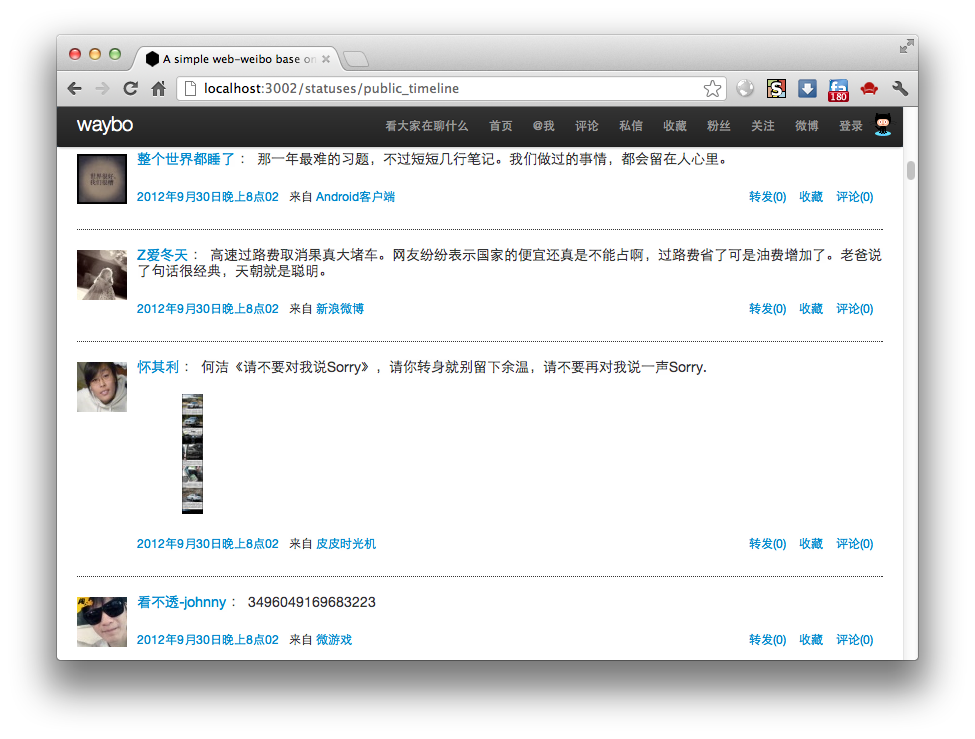
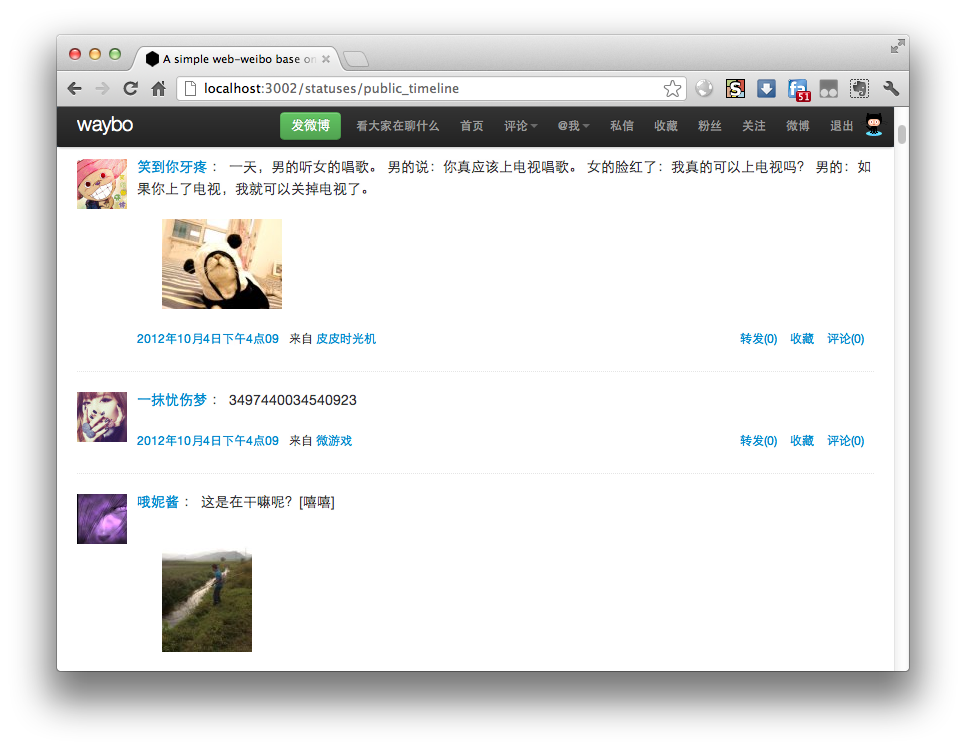
update screenshot & fix session problem

diff --git a/public/assets/css/weibo-index.css b/public/assets/css/weibo-index.css
@@ -23,7 +23,7 @@
 .layer_collect{padding:15px 20px;width:400px;}.layer_collect .tit{margin-bottom:15px;}.layer_collect .collect_kind{height:100%;overflow:hidden;padding-bottom:10px;}.layer_collect .collect_kind a,.layer_collect .collect_kind a span{display:inline-block;height:22px;line-height:22px;background:url("../../../images/layer/chosen_btn.png?id=1341302813656")  0 0 no-repeat;}.layer_collect .collect_kind a{float:left;padding-left:10px;margin-right:8px;margin-bottom:5px;color:#49646f;white-space:nowrap;}.layer_collect .collect_kind a span{padding-right:10px;background-position:right 0;}.layer_collect .collect_kind a:hover,.layer_collect .collect_kind a.cur{background-position:0 -32px;text-decoration:none;color:#fff;}.layer_collect .collect_kind a:hover span,.layer_collect .collect_kind a.cur span{background-position:right -32px;cursor:pointer;}.layer_collect .add_group .comment{margin-top:10px;_margin-top:5px;}.layer_collect .add_group .comment a,.layer_collect .add_group .comment a span{margin-right:0;display:inline-block;height:22px;line-height:22px;}.layer_collect .add_group .comment a{padding-left:10px;}.layer_collect .add_group .comment a span{padding-right:10px;}.layer_collect .add_group .comment a:hover{background-color:#dce2e4;border-radius:3px;text-decoration:none;}.layer_collect .add_group .comment a:hover span{cursor:pointer;}.layer_collect .add_group .comment a.cur,.layer_collect .add_group .comment a.cur span{background:url("../../../images/layer/chosen_btn.png?id=1341302813656")  0 -32px no-repeat;}.layer_collect .add_group .comment a.cur span{background-position:right -32px;color:#fff; font-weight:bold;}.layer_collect .add_group .comment em{color:#dbdada;}.layer_collect .add_group img{margin-right:3px;vertical-align:-1px;}.layer_collect .add_group a{color:#0078b6;}.layer_collect .add_group a{margin-right:10px;}.layer_collect .add_group a.W_btn_a_disable{*vertical-align:5px;}.layer_collect .add_group .W_moredown,.layer_collect .add_group .W_moreup{display:inline-block;color:#999;border:1px solid #c6c6c6;padding:4px 4px 5px 8px;margin-left:-1px;_margin-top:1px;}.layer_collect .add_group .W_moredown:hover,.layer_collect .add_group .W_moreup:hover{text-decoration:none;}.layer_collect .add_group a.W_moredown span,.layer_collect .add_group a.W_moreup:hover span{border-top-color:#49646f}.layer_collect .add_group input{padding:0 5px;padding:5px 5px 0\9;width:180px;color:#999;}.layer_collect .collect_reason{margin-top:10px;padding-top:10px;padding-bottom:10px;border-bottom:1px dotted #F1F1F1;border-top:1px dotted #f1f1f1;}.layer_collect .collect_reason textarea{padding:5px;height:16px;line-height:16px;color:#999;width:388px;}.layer_collect .see_hot{float:left;padding-top:5px;}.layer_collect .see_hot .W_Titarr_off,.layer_collect .see_hot .W_Titarr_on{vertical-align:-2px;*vertical-align:1px;}.layer_collect .see_hot a{color:#9ABBC8;}.layer_collect .collect_reason .kind{ float:left;padding-top:3px;}.layer_collect .collect_reason .kind a{margin:0 10px 0 0;display:inline-block;height:14px;padding:2px 0 2px 19px;line-height:14px;line-height:14px;background:url("../../../images/common/ico.png?id=1341302813656")  no-repeat;}.layer_collect .collect_reason .kind .face{background-position:0 1px;*background-position:0 0px;}.layer_collect .text_r{text-align:right;margin-top:10px;}.layer_collect .text_r .btn_noloading{margin-left:5px;}.layer_collect .comment_lists{overflow:hidden;}.layer_collect .comment_list dd{width:auto;}.layer_collect .comment_list{border-color:#f1f1f1;margin-top:-1px;padding-bottom:5px;}.layer_collect .comment{border:1px solid #F1F1F1;background:#FBFBFB;zoom:1;line-height:20px;padding: 15px 15px 10px;_padding:0 20px 13px;font-size:12px;margin:7px 0;-moz-border-radius:3px;-webkit-border-radius:3px;}.layer_collect .comment .collect_arrow{_display:none;width:25px;margin:-25px 0 0 0;height:11px;overflow:hidden;}.layer_collect .comment .collect_arrow span,.layer_collect .comment .collect_arrow em{display:inline-block;font-size:21px;font-family:"宋体";}.layer_collect .comment .collect_arrow span{color:#FBFBFB;}.layer_collect .comment .collect_arrow em{color:#F1F1F1;}.layer_collect .comment p{padding-top:10px;}.layer_collect .comment .collect_arrow span{margin:-19px 0 0;}.layer_collect .add_group .comment .collect_arrow{margin-left:200px;}#js_style_css_module_layer_layer_collect{height:42px;}
 .layer_feed_spread{	padding:15px;	width:350px;}.layer_feed_spread .spread dt,.layer_feed_spread .spread dd{	float:left;	width:50px;}.layer_feed_spread .spread dd{	width:290px;	margin:0 0 0 10px;	line-height:18px;	overflow: hidden;}.layer_feed_spread .spread .spread_arrow{	margin:0 0 0 20px;	position:relative;}.layer_feed_spread .spread .spread_arrow *{	font-family:"SimSun";	overflow:hidden;	font-size:21px;	display:block;	height:10px;	color:#e1e4e5;}.layer_feed_spread .spread .spread_arrow span{	margin:-9px 0 0;	color:#fbfbfb;}.layer_feed_spread .spread .transpond_detail{	border:1px solid #e1e4e5;	margin:-2px 0 0;	_margin:-4px 0 0;	background:#fbfbfb;	padding:3px 5px;	_zoom:1;}.layer_feed_spread .func{	margin:12px 0 0;}.layer_feed_spread .func span{	float:right;}
 .layer_quick_reply{width:200px;}.layer_quick_reply .faces{margin:10px 0 10px 10px;}.layer_quick_reply .faces img{margin-right:6px;width:30px;height:30px;cursor: pointer;}.layer_quick_reply .info{border-top:1px dotted #e3e3e3;margin:0 10px;}.layer_quick_reply .others{padding:10px 0;}.layer_quick_reply .others li{float:left;_display:inline;position:relative;margin: 0 6px 6px 0;}.layer_quick_reply .others li img{display:block;}.layer_quick_reply .others li .reply_face{cursor:pointer;position: absolute;right:-3px;bottom:-3px;}.layer_quick_reply .no_reply{padding:10px 0;}.layer_quick_reply .btm{background:#f5f5f5;text-align:right;height:33px;line-height:33px;padding:0 10px;}#js_style_css_module_layer_layer_quick_reply{height:42px;}
-.perAll_info{ }.perAll_info .name{ height:30px;line-height:30px;margin-top:-4px;}.perAll_info .name .approve,.perAll_info .name .approve_co,.perAll_info .name .ico_club,.perAll_info .name .ico_wbnight_cup,.perAll_info .name .ico_credit_high,.perAll_info .name .ico_credit_normal,.perAll_info .name .ico_credit_middle,.perAll_info .name .ico_credit_low,.perAll_info .name .ico_member,.perAll_info .name .ico_member_dis{ vertical-align:0; *margin:11px 0;}.perAll_info .name .ico_olympic_gold,.perAll_info .name .ico_olympic_silver,.perAll_info .name .ico_olympic_bronze{vertical-align:-1px;}.perAll_info .name .W_level_ico{ vertical-align:-3px; margin:0 0 0 5px;}.perAll_info .name .left{ float:left; font-size:16px; font-weight:bold;}.perAll_info .name .right{ float:right; _margin-top:8px;}.perAll_info .name .right .W_vline{margin:0 8px;}.perAll_info .name .right a.sendwb img,.perAll_info .name .right a.sendwb .icon_exportwb,.perAll_info p .icon_exportwb{ vertical-align:-2px; _vertical-align:0; margin-right:3px;}.perAll_info .name .right a.sendwb:hover{ text-decoration:none; _text-decoration:underline;}.perAll_info .name .right a.sendwb:hover img{ text-decoration:none; }.perAll_info .name .right a.sendwb:hover .txt{ text-decoration:underline;}.perAll_info p{line-height:21px;clear:both;  word-wrap:break-word;vertical-align:middle;}.perAll_info p .W_vline{margin:0 8px;}.perAll_info p .ico_number_gold,.perAll_info p .ico_number_silver,.perAll_info p .ico_number_bronze{margin-left:5px; vertical-align:-3px;}.perAll_info .info span{margin:0 20px 0 0;}.perAll_info .text .W_linkb{margin:0 0 0 10px;}.perAll_info .remark{ padding:10px 10px 0 10px;padding-top:8px\9;_padding-top:6px;font-size:12px;font-weight:normal;line-height:16px;}.perAll_info .concern{ height:24px; margin-top:0;}.handle_menu{position:absolute;top:222px; left:464px; padding:1px;border:solid 1px #ccc;background:#fff; z-index:102}.handle_menu li{display:inline; height:25px}.handle_menu li a{_position:relative; display:block; padding:5px 8px 5px 25px; padding:6px 8px 4px 25px\9; background-image:url("../../../images/index/handle_menu_bg.png?id=1341302813656") ;background-repeat:no-repeat;white-space:nowrap; color:#666;}.handle_menu a:hover{background-color:#eee;text-decoration:none}.handle_menu .letter{background-position:6px 8px;}.handle_menu .nickname{background-position:6px -17px;}.handle_menu .del_fans{ background-position:6px -145px;}.handle_menu .set_group{background-position:6px -45px;}.handle_menu .rec_friend{background-position:6px -68px;}.handle_menu .intro_friend{background-position:6px -120px;}.handle_menu .black_list{background-position:6px -93px;}.handle_menu .watch{background-position:6px -167px;}.perAll_info .handle_btn{ float:left;}.perAll_info .handle_btn i{ margin: 4px 0px 0px 5px;}.perAll_info .handle_more{float:right; margin:6px 3px 0 0;}.perAll_info .handle_more a{ display:inline; display:inline-block\9;}.perAll_info .handle_more .W_vline{ padding:0 10px; margin-top:-1px\9;}.perAll_info .face,.perAll_info .detail{float:left;}.perAll_info .face img{border:1px solid #ccc;display:block;}.perAll_info .detail{width:520px;
+.perAll_info{ }.perAll_info .name{ height:30px;line-height:30px;margin-top:-4px;}.perAll_info .name .approve,.perAll_info .name .approve_co,.perAll_info .name .ico_club,.perAll_info .name .ico_wbnight_cup,.perAll_info .name .ico_credit_high,.perAll_info .name .ico_credit_normal,.perAll_info .name .ico_credit_middle,.perAll_info .name .ico_credit_low,.perAll_info .name .ico_member,.perAll_info .name .ico_member_dis{ vertical-align:0; *margin:11px 0;}.perAll_info .name .ico_olympic_gold,.perAll_info .name .ico_olympic_silver,.perAll_info .name .ico_olympic_bronze{vertical-align:-1px;}.perAll_info .name .W_level_ico{ vertical-align:-3px; margin:0 0 0 5px;}.perAll_info .name .left{ float:left; font-size:16px; font-weight:bold;}.perAll_info .name .right{ float:right; _margin-top:8px;}.perAll_info .name .right .W_vline{margin:0 8px;}.perAll_info .name .right a.sendwb img,.perAll_info .name .right a.sendwb .icon_exportwb,.perAll_info p .icon_exportwb{ vertical-align:-2px; _vertical-align:0; margin-right:3px;}.perAll_info .name .right a.sendwb:hover{ text-decoration:none; _text-decoration:underline;}.perAll_info .name .right a.sendwb:hover img{ text-decoration:none; }.perAll_info .name .right a.sendwb:hover .txt{ text-decoration:underline;}.perAll_info p{line-height:21px;clear:both;  word-wrap:break-word;vertical-align:middle;}.perAll_info p .W_vline{margin:0 8px;}.perAll_info p .ico_number_gold,.perAll_info p .ico_number_silver,.perAll_info p .ico_number_bronze{margin-left:5px; vertical-align:-3px;}.perAll_info .info span{margin:0 20px 0 0;}.perAll_info .text .W_linkb{margin:0 0 0 10px;}.perAll_info .remark{ padding:10px 10px 0 10px;padding-top:8px\9;_padding-top:6px;font-size:12px;font-weight:normal;line-height:16px;}.perAll_info .concern{ height:24px; margin-top:0;}.handle_menu{position:absolute;top:222px; left:464px; padding:1px;border:solid 1px #ccc;background:#fff; z-index:102}.handle_menu li{display:inline; height:25px}.handle_menu li a{_position:relative; display:block; padding:5px 8px 5px 25px; padding:6px 8px 4px 25px\9; background-image:url("../../../images/index/handle_menu_bg.png?id=1341302813656") ;background-repeat:no-repeat;white-space:nowrap; color:#666;}.handle_menu a:hover{background-color:#eee;text-decoration:none}.handle_menu .letter{background-position:6px 8px;}.handle_menu .nickname{background-position:6px -17px;}.handle_menu .del_fans{ background-position:6px -145px;}.handle_menu .set_group{background-position:6px -45px;}.handle_menu .rec_friend{background-position:6px -68px;}.handle_menu .intro_friend{background-position:6px -120px;}.handle_menu .black_list{background-position:6px -93px;}.handle_menu .watch{background-position:6px -167px;}.perAll_info .handle_btn{ float:left;}.perAll_info .handle_btn i{ margin: 4px 0px 0px 5px;}.perAll_info .handle_more{float:right; margin:6px 3px 0 0;}.perAll_info .handle_more a{ display:inline; display:inline-block\9;}.perAll_info .handle_more .W_vline{ padding:0 10px; margin-top:-1px\9;}.perAll_info .face,.perAll_info .detail{float:left;}.perAll_info .face img{border:1px solid #ccc;display:block;}.perAll_info .detail{width:60%;
                                                                                                                                                                                                                                                                                                                                                                                                                                                                                                                                                                                                                                                                                                                                                                                                                                                                                                                                                                                                                                                                                                                                                                                                                                                                                                                                                                                                                                                                                                                                                                                                                                                                                                                                                                                                                                                                                                                                                                                                                                                                                                                                                                                                                                                                                                                                                                                                                                                                                                                                                                                                                                                                                                                                                                                                                                                                                                                                                                                                                                                                                                                                                                                                                                     /*position: absolute;
                                                                                                                                                                                                                                                                                                                                                                                                                                                                                                                                                                                                                                                                                                                                                                                                                                                                                                                                                                                                                                                                                                                                                                                                                                                                                                                                                                                                                                                                                                                                                                                                                                                                                                                                                                                                                                                                                                                                                                                                                                                                                                                                                                                                                                                                                                                                                                                                                                                                                                                                                                                                                                                                                                                                                                                                                                                                                                                                                                                                                                                                                                                                                                                                                                     left: 200px; */display:inline;margin:0 0 0 20px;}#js_style_css_module_global_person_info_big{height:42px;}
 .photos_list {	_position:relative;}.photos_list ul {	height:84px;	_zoom:1;}.photos_list ul li {	float:left;	display:inline;	margin-right:6px;	position:relative;}.photos_list ul li a .commented {	height:13px;	width:13px;	position:absolute;	bottom:0;	left:68px;	background:url("../../../images/other_apps/comment.gif?id=1341302813656")  no-repeat;}.photos_list ul li a {	width:80px;	height:80px;	border-width:1px;	border-style:solid;	display:block;}.photos_list ul li a img {	width:80px;	height:80px;}.photos_list ul li a:hover {	border-color:#a9def3;}.photos_list .upload.photos_list .more {	display:inline-block;	border:none;}.photos_list ul li.up_info {	border:none;	margin:0;	width:90px;}.photos_list ul li.up_info a {	padding:12px 5px;	border:0;	text-align:center;	height:16px;	line-height:16px;	zoom:1;}.photos_list .more_photos {	border-radius:3px;	height:18px;	text-align:center;	display:block;}.photos_list .more_photos .more {	margin-top:7px;}.weibo_album {	_position:relative;	width:540px;}.weibo_album .title {	margin:0 0 10px;}.weibo_album .title strong {	font-weight:bold;}.weibo_album .title .right {	float:right;}.weibo_album .title .W_vline {	margin:0 10px;}.weibo_album ul {	_zoom:1;}.weibo_album ul li {	float:left;	display:inline;	padding:0 5px 10px;	position:relative;}.weibo_album ul li a .commented {	height:13px;	width:13px;	position:absolute;	bottom:10px;	left:68px;	background:url("../../../images/other_apps/comment.gif?id=1341302813656")  no-repeat;}.weibo_album ul li a {	width:80px;	height:80px;	display:block;	background:#fff;}.weibo_album ul li a img {	width:80px;	height:80px;}.weibo_album ul li a:hover img{	opacity:.9;filter:alpha(opacity=90);}.weibo_album .upload.photos_list .more {	display:inline-block;	border:none;}.weibo_album ul li.up_info {	border:none;	margin:0;	width:90px;}.weibo_album ul li.up_info a {	padding:12px 5px;	border:0;	text-align:center;	height:16px;	line-height:16px;	zoom:1;}.weibo_album .more_photos{	text-align:center;	padding-bottom:8px;}.weibo_album .slide {	border-radius:3px;	height:18px;	text-align:center;	display:block;}.weibo_album .slide .more {	margin-top:7px;}#js_style_css_module_list_user_profile_photolist {	height:42px;}

diff --git a/public/assets/css/weibo-connect.css b/public/assets/css/weibo-connect.css
@@ -1,6 +1,7 @@
 .tab_e{ margin-left:2px;}.tab_e .tabs a,.tab_e .tabs .label{vertical-align:middle;margin:0 -2px;display:inline-block;}.tab_e .tabs a{padding:10px 6px 10px 7px;border-radius:3px; font-family:Arial; line-height:1.231;}.tab_e .tabs .label{padding:10px 9px 10px 10px;}.tab_e .tabs .icon_edit_s,.tab_e .tabs .icon_del_s,.tab_e .tabs .group_feed,.tab_e .tabs .group_feed_view{ vertical-align:-1px;*vertical-align:2px;_vertical-align:0; margin-right:4px;}.tab_e .tabs .male,.tab_e .tabs .female{ vertical-align:-2px;*vertical-align:1px;_vertical-align:0;margin-right:4px;}.tab_e .tabs .group_feed{ display:inline-block;width: 10px;height: 10px;background: url("../../../images/connect/group_feed.png?id=1341302813656")  no-repeat;}.tab_e .tabs .group_feed_view{ display:inline-block;width: 10px;height: 10px;background: url("../../../images/connect/group_feed.png?id=1341302813656")  no-repeat 0 -16px;}.tab_e .right{float:right;}.tab_e .i_conn_public,.tab_e .i_conn_follow,.tab_e .i_conn_friend,.tab_e .i_conn_private{  margin:0 0 0 3px;  vertical-align:top;  *vertical-align:-4px;  _vertical-align:-5px;}.tab_e .right .W_btn_b{ margin:4px 0 0;}.tab_e .tabs .current{text-decoration:none;cursor:text;position:relative;z-index:2;font-weight:700;}.tab_below{margin-top:-2px;}#js_style_css_module_tab_tab_e{height:42px;}
 .index_title{padding:0 0 5px;}.index_title h3{font-size:14px;font-weight:700;padding:0 0 8px;border-bottom-width:1px;border-bottom-style:solid;}.index_title h3 span{font-size:12px;margin-left:8px;font-weight:400}.index_title .search{float:right;margin:-29px 0 0;border:1px solid #d2d5d8;height:22px;background:#fff;}.index_title .search .input{margin:0 5px 0 0;border:0;color:#666;line-height:22px;height:22px;float:left;width:130px;padding:0 2px;}.index_title .search .input_default{color:#b8b7b7;}.index_title .search .btn{background:url("../../../images/common/search_btn.gif?id=1341302813656")  no-repeat;width:20px;height:22px;float:left;}.index_title .published{float:right;height:20px;margin-top:-34px;padding:5px 0 0 15px; background:url("../../../images/common/ico.png?id=1341302813656")  no-repeat 0 -785px}.index_title .W_btn{float:right;margin:-34px 175px 0 0;*margin:-39px 10px 0 0;padding:5px 0 0 15px}.index_title .W_btn_e span{ margin-left:0;}.index_title .btnSingle{float:right;margin:-39px 0 0 0;padding:5px 0 0 15px}.index_title .pub_space{margin-right:175px;*margin-right:10px}.index_title .W_btn a img.privatebtn{background:url("../../../images/common/ico.png?id=1341302813656")  no-repeat 0 -1070px;width:16px;height:13px;float:left;margin:5px 5px 0 0}.index_title h4{padding-top:7px;font-size:12px;font-weight:normal;color:#b8b7b7}.index_title h4 a{padding:0 5px}.index_title .rightbottom{ float:right; display:inline-block; padding:10px 15px; background:#f0f0f0;}.index_title_sec{font-size:14px; font-weight:normal;}.index_title .fr{float:right;height:20px;margin-top:-28px;padding:5px 0 0 15px;}.index_title .fr .W_vline{margin: 0 5px;}.index_title .memberbtn{float:right;height:20px;margin-top:-26px;}.index_title .memberbtn .W_btn_j{margin: 0 0 0 8px;}.index_title .index_title_right{	float:right;	margin:-29px 0 0;}.index_title .index_title_right .search{margin:0;}.index_title .index_title_right .W_moredown,.index_title .index_title_right .W_moreup{	float:right;	margin:0 0 0 4px;	padding:6px 6px 11px 6px;	display:inline;	position:relative;	z-index:10;}.index_title .index_title_right .W_moreup{	padding:5px 5px 10px 5px;	border-width:1px 1px 0;	border-style:solid;}.index_title .senSear_at{	border-width:1px;	border-style:solid;	padding:10px;	position:relative;	z-index:4;}.index_title .ico_shield{	background:url("../../../images/index/handle_menu_bg.png?id=1341302813656")  no-repeat 0 -98px;	padding:0 0 0 16px;}.index_title .senSear_at .s_type{ padding:0 0 5px; clear:both;}.index_title .senSear_at .s_key{ padding:0 0 10px;}.index_title .senSear_at .s_btn{ padding:0 0 5px;}.index_title_draw a{ display:block; background:#f3f3f3; height:30px; line-height:27px; padding:0 15px; cursor:pointer;}.index_title_draw a:hover{ text-decoration:none;}.index_title_draw .title{ float:left;}.index_title_draw .W_Titarr_off,.index_title_draw .W_Titarr_on{ float:right; margin-top:8px;}.index_title_draw a:hover .W_Titarr_off{background-position:0 -48px;}.title_connect{border-bottom-width:1px; border-bottom-style:solid;}.title_connect h3{ border:0; float:left; padding:0; line-height:24px;}.title_connect .info_left{ float:left; margin-left:10px;}.title_connect .search{ margin:0;}.title_connect .info_link{ padding-top:5px;}.title_connect .title_main{ margin-bottom:5px;}.title_connect .title_info{ word-wrap: break-word;}.title_connect .txt_right{float:right;padding-top: 5px;}#js_style_css_module_title_index_title{height:42px;}
-.cnfList li{ padding:15px 0; vertical-align:top; display:block; border-width: 0 0 1px 0;border-style: solid;}.cnfList .left{ float:left; width:50px;}.cnfList .con{margin-left:60px;position:relative; *zoom:1}.cnfList .con_left{margin-right:80px}.cnfList .groupBtn{ position:absolute; left:285px; top:0;}.cnfList .more_info{ position:absolute; right:0; bottom:0;}.cnfList .face{ *font-size:0;}.cnfList .name { margin-right:115px;}.cnfList .name .optName,.cnfList .name .W_f14{*vertical-align:baseline; }.cnfList .name .used{ float:right; margin-top:2px}.cnfList .weibo,.cnfList .info {line-height:1.5em; word-wrap:break-word;*vertical-align:baseline;}.cnfList .con_right{text-align:right; width:80px; float:right; min-height: 80px; _height:80px;_zoom:1;}.cnfList .detail_r{ float:right;}.cnfList .name .optName,.cnfList .name .addr{white-space:nowrap;}.cnfList .stat { text-align:center}.cnfList .stat .IM_online,.cnfList .stat .IM_busy,.cnfList .stat .IM_away,.cnfList .stat .IM_offline{ vertical-align:-1px;*vertical-align:2px; margin:0 4px 0 0;}.cnfList .connect .W_vline,.cnfList .tags .W_vline{ margin:0 5px;}.cnfList .watch .con_left{margin-right:95px}.cnfList .watch .con_right{width:95px;}.cnfList .img_list .list_item{float: left;display: inline;margin-right: 10px;}.cnfList .detail .W_bubtips{ margin:5px 0 0 58px;}.cnfList .detail .W_bubtips .W_bgcolor_arrow { margin-left:440px;}.cnfList .detail .W_bubtips .W_bgcolor{ padding:12px;}.cnfList .detail .mb3{ margin-bottom:5px;}.cnfList .detail .mbdetail{ margin-bottom:10px;}.cnfList .detail .mbpic{ margin-bottom:15px;}.cnfList .detail .pic_list{ display:inline-block; vertical-align:middle; *font-size:0}.cnfList .detail .pic_list img { margin:0 10px 0 0;}.cnfList .mbspace{ margin-bottom:8px;}.cnfList .mbspace .ico_member,.cnfList .mbspace .male,.cnfList .mbspace .female{ vertical-align:middle;}.cnfList li .space{ margin-left:10px;}.cnfList li .con_right .txt,.cnfList li .addOptName,.cnfList li .used{visibility:hidden; _visibility:visible; white-space:nowrap;}.cnfList li:hover .con_right .txt,.cnfList li:hover .addOptName,.cnfList li:hover .used{ visibility:visible;}#js_style_css_module_list_connect_frilist{height:42px;}
+.cnfList li{ padding:15px 0; vertical-align:top; display:block;
+  border-color:#E6E6E6; border-width: 0 0 1px 0;border-style: solid;}.cnfList .left{ float:left; width:50px;}.cnfList .con{margin-left:60px;position:relative; *zoom:1}.cnfList .con_left{margin-right:80px}.cnfList .groupBtn{ position:absolute; left:285px; top:0;}.cnfList .more_info{ position:absolute; right:0; bottom:0;}.cnfList .face{ *font-size:0;}.cnfList .name { margin-right:115px;}.cnfList .name .optName,.cnfList .name .W_f14{*vertical-align:baseline; }.cnfList .name .used{ float:right; margin-top:2px}.cnfList .weibo,.cnfList .info {line-height:1.5em; word-wrap:break-word;*vertical-align:baseline;}.cnfList .con_right{text-align:right; width:80px; float:right; min-height: 80px; _height:80px;_zoom:1;}.cnfList .detail_r{ float:right;}.cnfList .name .optName,.cnfList .name .addr{white-space:nowrap;}.cnfList .stat { text-align:center}.cnfList .stat .IM_online,.cnfList .stat .IM_busy,.cnfList .stat .IM_away,.cnfList .stat .IM_offline{ vertical-align:-1px;*vertical-align:2px; margin:0 4px 0 0;}.cnfList .connect .W_vline,.cnfList .tags .W_vline{ margin:0 5px;}.cnfList .watch .con_left{margin-right:95px}.cnfList .watch .con_right{width:95px;}.cnfList .img_list .list_item{float: left;display: inline;margin-right: 10px;}.cnfList .detail .W_bubtips{ margin:5px 0 0 58px;}.cnfList .detail .W_bubtips .W_bgcolor_arrow { margin-left:440px;}.cnfList .detail .W_bubtips .W_bgcolor{ padding:12px;}.cnfList .detail .mb3{ margin-bottom:5px;}.cnfList .detail .mbdetail{ margin-bottom:10px;}.cnfList .detail .mbpic{ margin-bottom:15px;}.cnfList .detail .pic_list{ display:inline-block; vertical-align:middle; *font-size:0}.cnfList .detail .pic_list img { margin:0 10px 0 0;}.cnfList .mbspace{ margin-bottom:8px;}.cnfList .mbspace .ico_member,.cnfList .mbspace .male,.cnfList .mbspace .female{ vertical-align:middle;}.cnfList li .space{ margin-left:10px;}.cnfList li .con_right .txt,.cnfList li .addOptName,.cnfList li .used{visibility:hidden; _visibility:visible; white-space:nowrap;}.cnfList li:hover .con_right .txt,.cnfList li:hover .addOptName,.cnfList li:hover .used{ visibility:visible;}#js_style_css_module_list_connect_frilist{height:42px;}
 .form_follow_wrp{  padding:12px;  background:#F5F9FA;}.form_follow .label{  float:left;  width:120px;  line-height:26px;  text-align:right;}.form_follow .content{  margin-left:130px;}.form_follow .btn_box{	float:right;  width:80px;  padding:1px 0 0;}.form_follow .input_box{	margin-right:90px;  position:relative;  _zoom:1}.form_follow .input_box .popup{  position:absolute;  right:1px;  top:1px;  width:22px;  height:26px;  background:#f2f2f2 url("../../../images/connect/bg_follow_popup.png?id=1341302813656")  no-repeat 0 0;}.form_follow .input_box .popup.on{  background-position:right top;}.form_follow .input_wrp{	border-color: #C4C7BD #F2F2F2 #F2F2F2 #C4C7BD;	border-style: solid;	border-width: 1px;  _zoom:1;}.form_follow .element_list{  padding:0 0 2px 2px;  margin:0 22px 0 0;  background:white;  cursor:text;}.form_follow .W_btn_deltags{  cursor:default;  display:inline-block;  *display:inline;  border-color:#0078B6;  margin-top:2px;}.form_follow .tip{  color:#aaa;  line-height:26px;  border:1px solid #ccc;  background-color:white;  position:absolute;  padding:0 10px;  width:240px;  background:#fff;}.form_follow .W_btn_deltags .delicon{  cursor:pointer;}.form_follow .input_area{  vertical-align:top;  display:inline-block;  *display:inline;  *zoom:1;  margin-top:2px;  padding:4px 0;  *padding:3px 0;  height:14px;  border:0;  width:12px;}.form_follow .W_input{  width:280px;}#js_style_css_module_forms_form_follow{height:42px;}
 .layer_attention_choose{width:520px;padding:20px;}.layer_attention_choose .tab_c .current{_position:static;}.layer_attention_choose .person_list{border:1px solid #ebebeb;margin:10px 0 0;}.layer_attention_choose .person_list .list{height:240px;overflow-y:auto;overflow-x:hidden;padding:10px 0 10px 10px;}.layer_attention_choose .person_list .list li{width:135px;float:left;padding:10px 9px;display:inline;margin:0 10px 10px 0;}.layer_attention_choose .person_list .list li.current{background:#f3f3f3;}.layer_attention_choose .person_list .list li.current .icon_succ{display:block;}.layer_attention_choose .person_list .list li:hover{background:#f8f8f8;cursor:pointer;}.layer_attention_choose .person_list .list li .face{float:left;display:inline;margin:0 8px 0 0;}.layer_attention_choose .person_list .list li .icon_succ{margin:-18px 0 0;display:none;float:left;clear:both;}.layer_attention_choose .person_list .list li .info{overflow:hidden;zoom:1;}.layer_attention_choose .person_list .list li .info span{display:block;line-height:16px;}.layer_attention_choose .person_list .list li .info span.region{height:14px;overflow:hidden;}.layer_attention_choose .person_list .list li .info .info_txt{height:32px;overflow:hidden;}.layer_attention_choose .person_list .func{background:#f3f3f3;padding:8px 20px;}.layer_attention_choose .person_list .func label{cursor:pointer;}.layer_attention_choose .person_list .func_right {float: right;line-height: 16px;*line-height: 22px;}.layer_attention_choose .search{border:1px solid #d2d5d8;height:22px;margin:3px 0 0;}.layer_attention_choose .search .input{margin:0 5px 0 0;border:0;color:#666;float:left;line-height:22px;height:22px;width:130px;padding:0 2px;}.layer_attention_choose .search .default{color:#e0e0e0;}.layer_attention_choose .search .btn{background:url("../../../images/common/search_btn.gif?id=1341302813656")  no-repeat;width:20px;height:22px;float:left;padding:0;}.layer_attention_choose .person_list .list .personList_tips{clear:both;padding:0;width:480px;}.layer_attention_choose .person_list .list .personList_tips:hover{background:none;cursor:default;}.layer_attention_choose .person_list .list .personList_tips .tipscon{width:458px;}.layer_attention_choose .person_list .list .personList_tips .tipscon .txt{width:435px}.layer_attention_choose .person_list .list .no_person{width:auto;padding:0;}.layer_attention_choose .person_list .list .no_person:hover{background:none;cursor:text;}.layer_attention_choose .miyou{color:#C94B70;font-weight: 700;margin:0 5px;}.layer_attention_choose .person_list .list .no_person2{line-height:20px;width:300px;margin:65px auto 0;float:none;display: block;}.layer_attention_choose .person_list .list .no_person2:hover{background:none;cursor:text;}#js_style_css_module_layer_layer_attention_choose{height:42px;}
 .layer_setup_group{ padding:20px;}.lsg_Tit{ height:24px; line-height:24px; border-bottom:1px dotted #ddd; padding-bottom:15px; margin-bottom:15px;}.lsg_Tit .W_input{ width:248px; vertical-align:middle;}.lsg_Tit .M_notice_text, .lsg_Tit .M_notice_del{left:63px;*left:66px; top:21px;}.lsg_gTit{height:24px; line-height:24px; position:relative;z-index:99;}.lsg_gTit .left{ float:left;}.lsg_gTit .right{ float:right;}.lsg_gTit .layer_tips{ position:absolute; right:0px;top:30px;z-index:10;}.lsg_gTit .right .icon_askS{ vertical-align:-3px;*vertical-align:-1px;_vertical-align:1px;}.lsg_glist{}.lsg_creaNew{ margin:10px 0 0 0;}.lsg_creaNew.form_table_single .M_notice_text, .lsg_creaNew.form_table_single .M_notice_del{left:0; top:21px;}.lsg_creaNew .W_input{ width:192px;}.lsg_creaNew .W_btn_a{ margin:0 5px;}.lsg_glistBox{ width:292px; margin:10px 0; padding:10px; background:#f0f0f0;_position:relative;}.lsg_glistBox ul li{float:left;width:124px;height:15px;line-height:15px;padding:6px 10px;padding:3px 10px\9; white-space:nowrap; overflow:hidden;}.lsg_addNew{ margin:10px 0 0 0;}.lsg_addNew a.addnew:hover{ text-decoration:none;_text-decoration:underline;}.lsg_addNew a.addnew:hover .txt{text-decoration:underline;}.lsg_addNew a.addnew .ico_addinv{margin:0 3px 0 2px;*vertical-align:2px;_vertical-align:-2px}#js_style_css_module_layer_layer_setup_group{height:42px;}

diff --git a/app.js b/app.js
@@ -16,6 +16,8 @@ app.configure('development', function() {
   app.use(express.bodyParser());
   app.use(express.methodOverride());
   app.use(express.static(path.join(appRoot, 'public')));
+  app.use(express.cookieParser());
+  app.use(express.session({secret: config.sessionSecret}));
   app.use(express.errorHandler({ dumpExceptions: true, showStack: true}));
   app.set('views', path.join(appRoot, 'views'));
   app.set('views engine', 'html');

diff --git a/routes.js b/routes.js
@@ -137,6 +137,7 @@ module.exports = function(app) {
     weibo.GET('account/end_session', {},
       function(err, data) {
         if (!err) {
+          req.session.destroy();
           app.locals({
             'accessToken': '',
             'uid': ''

diff --git a/public/assets/css/style.css b/public/assets/css/style.css
@@ -662,3 +662,15 @@ div[class$=part] {
 .perAll_info .detail p {
   margin-bottom: 0;
 }
+
+dl.comment dt {
+  font-weight: normal;
+}
+
+.feed_list_content {
+  line-height: 22px;
+}
+
+.comment .feed_list_content {
+  font-size: 12px;
+}

diff --git a/public/app/router.js b/public/app/router.js
@@ -1,5 +1,5 @@
 define(['app'], function(app) {
-  console.log(app);
+  'use strict';
 
   Handlebars.registerHelper('dateFormat', function(date) {
     return date && moment(date).format('LLL');
